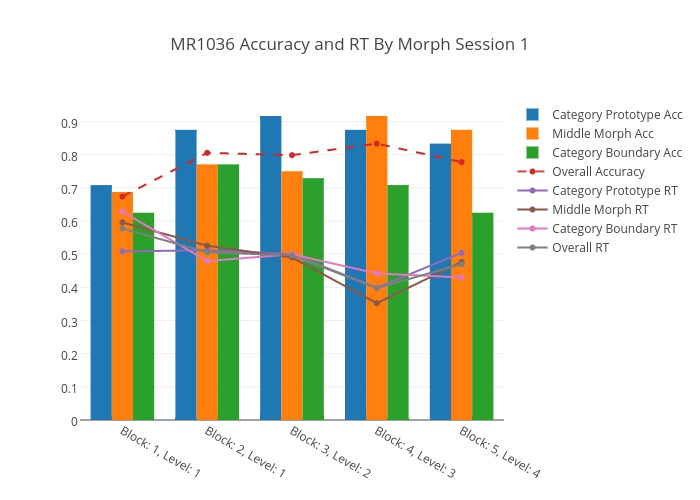
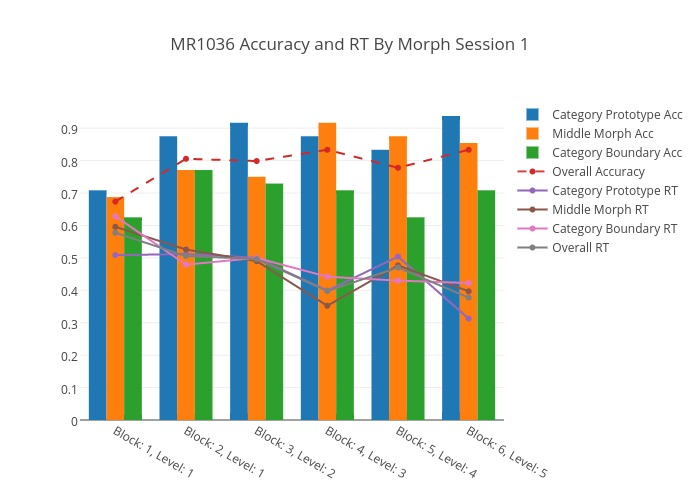
Fixed a bug in the Category Training script that prevented Block 6 from being drawn on the Block Accuracy graph.

diff --git a/07_analysis/AnalysisGUI/modules/GUI.py b/07_analysis/AnalysisGUI/modules/GUI.py
@@ -27,7 +27,7 @@ class GUI(tkinter.Frame):
 		self.chooseFileButton.grid(row = 2, column = 0, padx = 2)		#open file choice dialog for data file
 
 		self.chosenFile = tkinter.StringVar()
-		self.chosenFileField = tkinter.Entry(self, textvariable = self.chosenFile, width = 40)
+		self.chosenFileField = tkinter.Entry(self, textvariable = self.chosenFile, width = 40, justify = tkinter.RIGHT)
 		self.chosenFileField.grid(row = 2, column = 1)					#shows which data file was selected
 
 		self.sessionLabel = tkinter.Label(self, text = "Session:")
@@ -49,6 +49,8 @@ class GUI(tkinter.Frame):
 	def chooseFile(self):												#file choice dialog
 		filename = filedialog.askopenfilename(filetypes = [("MATLAB Data Files", ".mat"), ("All Files", ".*")])
 		self.chosenFile.set(filename)
+		self.chosenFileField.focus()
+		self.chosenFileField.index(tkinter.END)							#so that the filename is visible
 
 	def updateSessionField(self, event = None):							#session field is enabled or not based on chosen script
 		optionIndex = [option["Name"] for option in self.options].index(self.sessionType.get())

diff --git a/07_analysis/AnalysisGUI/modules/CategoryTrainingFigure_Funnel.py b/07_analysis/AnalysisGUI/modules/CategoryTrainingFigure_Funnel.py
@@ -7,12 +7,11 @@ import plotly.tools as tls
 from frequencyFunction_specific import FrequencySpecific
 from category import category
 from PositionFunction_General import Position_general
+tls.set_credentials_file(username='cs1471', api_key='9xknhmjhas')
 
 
 
 def CategoryTrainingFigure_Funnel(fileDirectory, filename, session):
-	tls.set_credentials_file(username='cs1471', api_key='9xknhmjhas')
-
 	#Use when debugging or manually editing
 	#filename      = ('20160605_1137-MR1035_block6')
 	#fileDirectory = 'C:\\Users\\Jason\\Documents\\MaxLab\\Repos\\Vibrotactile\\01_CategoryTraining\\data\\1035\\'
@@ -66,7 +65,7 @@ def CategoryTrainingFigure_Funnel(fileDirectory, filename, session):
 	#x-axis label
 	x = []
 	i=0
-	for i in range(5):
+	for i in range(6):
 				x.append("Block: " + str(i+1) + ", Level: " + str(level[0,i][0,0])),
 
 	#############################################################################

diff --git a/07_analysis/AnalysisGUI/modules/main.py b/07_analysis/AnalysisGUI/modules/main.py
@@ -1,3 +1,5 @@
+print("Loading...")
+
 from GUI import GUI
 
 
